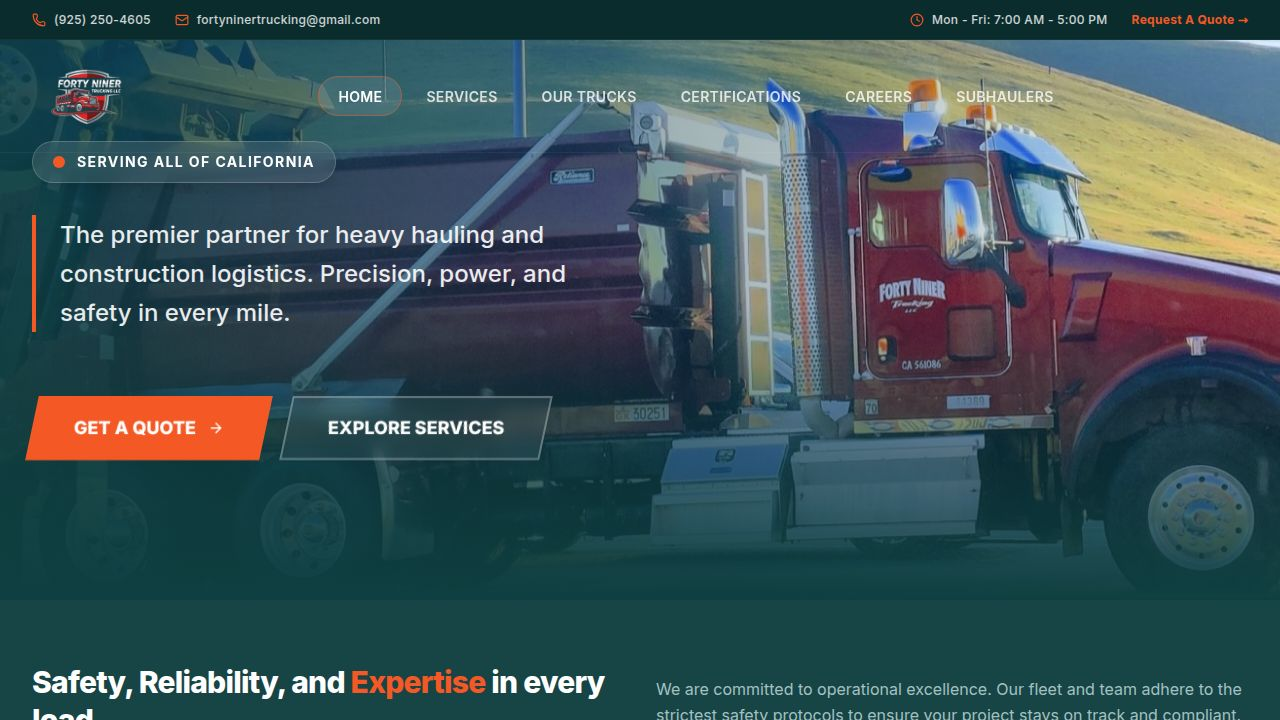
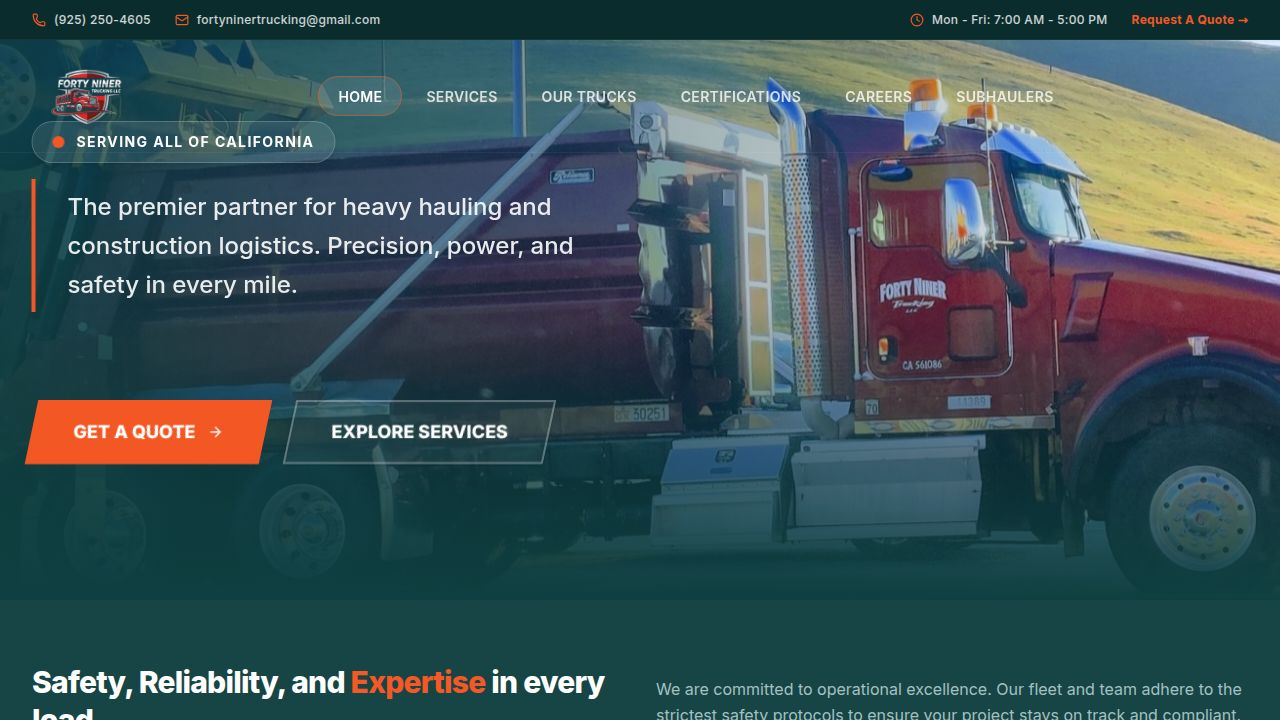
Improve spacing and layout across all site pages
Adjusted various spacing and margin properties within hero sections and page layouts to enhance visual appeal and readability across multiple components and pages.

Replit-Commit-Author: Agent
Replit-Commit-Session-Id: 8c545bd8-3861-4e10-b893-73e8ae926bbb
Replit-Commit-Checkpoint-Type: full_checkpoint
Replit-Commit-Event-Id: ec043393-c745-48ec-84e0-10e8fcd6f94c
Replit-Commit-Screenshot-Url: https://storage.googleapis.com/screenshot-production-us-central1/74c87e2d-ebef-452a-bdc8-60aabaeb0e62/8c545bd8-3861-4e10-b893-73e8ae926bbb/vnhyUVO
Replit-Helium-Checkpoint-Created: true

diff --git a/client/src/pages/home.tsx b/client/src/pages/home.tsx
@@ -40,9 +40,9 @@ export default function Home() {
               initial={{ opacity: 0, x: -50 }}
               animate={{ opacity: 1, x: 0 }}
               transition={{ duration: 0.8, ease: "easeOut" }}
-              className="space-y-8"
+              className="space-y-12"
             >
-              <div className="inline-flex items-center gap-3 px-5 py-2.5 rounded-full bg-white/10 backdrop-blur-md border border-white/20 text-white font-bold tracking-widest text-sm uppercase shadow-lg">
+              <div className="inline-flex items-center gap-3 px-5 py-2.5 rounded-full bg-white/10 backdrop-blur-md border border-white/20 text-white font-bold tracking-widest text-sm uppercase shadow-lg mb-4">
                 <span className="relative flex h-3 w-3">
                   <span className="animate-ping absolute inline-flex h-full w-full rounded-full bg-primary opacity-75"></span>
                   <span className="relative inline-flex rounded-full h-3 w-3 bg-primary"></span>
@@ -51,11 +51,11 @@ export default function Home() {
               </div>
               
               
-              <p className="text-xl md:text-2xl text-white/90 max-w-xl font-medium leading-relaxed border-l-4 border-primary pl-6">
+              <p className="text-xl md:text-2xl text-white/90 max-w-xl font-medium leading-relaxed border-l-4 border-primary pl-8 py-2">
                 The premier partner for heavy hauling and construction logistics. Precision, power, and safety in every mile.
               </p>
               
-              <div className="pt-8 flex flex-col sm:flex-row gap-5">
+              <div className="pt-10 flex flex-col sm:flex-row gap-6">
                 <Link href="/contact">
                   <Button className="rounded-none skew-x-[-12deg] bg-primary hover:bg-primary/90 px-10 h-16 text-lg font-black text-white shadow-[0_0_30px_rgba(var(--primary),0.4)] transition-all hover:skew-x-0 hover:scale-105 border-2 border-primary">
                     <span className="skew-x-[12deg] inline-flex items-center gap-3">

diff --git a/client/src/pages/fleet.tsx b/client/src/pages/fleet.tsx
@@ -29,13 +29,13 @@ export default function Fleet() {
               ease: [0.22, 1, 0.36, 1], // Custom easing for smooth slide
               delay: 0.2 
             }}
-            className="flex flex-col items-center text-center space-y-8"
+            className="flex flex-col items-center text-center space-y-12"
           >
-            <div className="h-24 w-24 rounded-3xl bg-white/10 backdrop-blur-md flex items-center justify-center text-white border border-white/20 shadow-2xl mb-4">
+            <div className="h-24 w-24 rounded-3xl bg-white/10 backdrop-blur-md flex items-center justify-center text-white border border-white/20 shadow-2xl mb-8">
               <Truck size={48} strokeWidth={1.5} />
             </div>
 
-            <h1 className="text-6xl md:text-8xl font-black tracking-tighter text-white leading-none">
+            <h1 className="text-6xl md:text-8xl font-black tracking-tighter text-white leading-none mb-8">
               Coming <br/>
               <span className="text-primary text-transparent bg-clip-text bg-gradient-to-r from-white to-white/50">Soon</span>
             </h1>
@@ -44,10 +44,10 @@ export default function Fleet() {
               initial={{ width: 0 }}
               animate={{ width: "100px" }}
               transition={{ duration: 1, delay: 1 }}
-              className="h-1 bg-white/30 rounded-full"
+              className="h-1 bg-white/30 rounded-full my-8"
             />
 
-            <p className="text-xl md:text-2xl text-white/70 max-w-2xl font-light tracking-wide">
+            <p className="text-xl md:text-2xl text-white/70 max-w-2xl font-light tracking-wide mt-8">
               We are currently updating our fleet gallery with our newest equipment. Check back shortly to view our full inventory of trucks and trailers.
             </p>
           </motion.div>

diff --git a/client/src/pages/services.tsx b/client/src/pages/services.tsx
@@ -21,18 +21,19 @@ export default function Services() {
            <div className="absolute inset-0 bg-[#0F3F40]/80 z-10" />
         </div>
         
-        <div className="relative z-20 w-full max-w-[1800px] mx-auto px-4 md:px-8 text-center space-y-6">
+        <div className="relative z-20 w-full max-w-[1800px] mx-auto px-4 md:px-8 text-center space-y-10">
            <motion.div
              initial={{ opacity: 0, y: 20 }}
              animate={{ opacity: 1, y: 0 }}
              transition={{ duration: 0.6 }}
+             className="space-y-8"
            >
-             <h2 className="text-primary font-bold tracking-widest text-sm mb-4">Our Expertise</h2>
-             <h1 className="text-5xl md:text-7xl font-black tracking-tighter text-white leading-none mb-6">
+             <h2 className="text-primary font-bold tracking-widest text-sm mb-6">Our Expertise</h2>
+             <h1 className="text-5xl md:text-7xl font-black tracking-tighter text-white leading-none mb-8">
               Specialized <br/>
               <span className="text-transparent bg-clip-text bg-gradient-to-r from-primary to-orange-400">Hauling Solutions</span>
              </h1>
-             <p className="text-xl text-white/70 max-w-2xl mx-auto leading-relaxed">
+             <p className="text-xl text-white/70 max-w-2xl mx-auto leading-relaxed mt-8">
                Comprehensive logistics and transport services tailored for the modern construction industry.
              </p>
            </motion.div>

diff --git a/client/src/pages/subhaulers.tsx b/client/src/pages/subhaulers.tsx
@@ -86,13 +86,13 @@ export default function Subhaulers() {
 
       <div className="w-full max-w-[1800px] mx-auto px-4 md:px-8">
         <div className="grid lg:grid-cols-2 gap-12 items-start">
-          <div className="space-y-6">
-            <h1 className="text-4xl md:text-5xl font-bold tracking-tight">Partner With Us.</h1>
+          <div className="space-y-10">
+            <h1 className="text-4xl md:text-5xl font-bold tracking-tight mb-6">Partner With Us.</h1>
             <p className="text-lg text-muted-foreground leading-relaxed">
               We seek reliable owner-operators and subhaulers for long-term partnership. We offer fair dispatch and consistent opportunities.
             </p>
             
-            <div className="grid sm:grid-cols-2 gap-4 pt-4">
+            <div className="grid sm:grid-cols-2 gap-4 pt-8">
                {[
                  { icon: Handshake, title: "Fair Dispatch", desc: "Equitable loads." },
                  { icon: ShieldCheck, title: "Clear Terms", desc: "Transparent agreements." },

diff --git a/client/src/pages/contact.tsx b/client/src/pages/contact.tsx
@@ -84,12 +84,12 @@ export default function Contact() {
       {/* Hero Section */}
       <section className="relative pt-32 pb-20 md:pt-48 md:pb-32 overflow-hidden bg-secondary/30">
         <div className="w-full max-w-[1800px] mx-auto px-4 md:px-8 relative z-10">
-          <div className="max-w-4xl">
-            <h1 className="text-5xl md:text-7xl font-bold tracking-tight text-foreground mb-6">
+          <div className="max-w-4xl space-y-8">
+            <h1 className="text-5xl md:text-7xl font-bold tracking-tight text-foreground mb-8">
               Let's Start a <br />
               <span className="text-primary">Conversation.</span>
             </h1>
-            <p className="text-xl md:text-2xl text-muted-foreground max-w-2xl leading-relaxed">
+            <p className="text-xl md:text-2xl text-muted-foreground max-w-2xl leading-relaxed mt-6">
               Whether you need a quote for a major project or want to join our fleet, 
               our team is ready to help you move forward.
             </p>

diff --git a/client/src/pages/about.tsx b/client/src/pages/about.tsx
@@ -22,14 +22,14 @@ export default function About() {
         </div>
 
         <div className="relative z-20 w-full max-w-[1800px] mx-auto px-4 md:px-8 h-full flex flex-col justify-center">
-          <div className="max-w-3xl space-y-6">
+          <div className="max-w-3xl space-y-10">
             <h1 className="text-5xl md:text-7xl font-black tracking-tighter text-white leading-[0.9]">
               Driving <br />
               <span className="text-primary">Excellence</span> <br />
               in Hauling
             </h1>
-            <div className="h-1 w-24 bg-primary" />
-            <p className="text-xl text-white/90 leading-relaxed max-w-xl font-medium">
+            <div className="h-1 w-24 bg-primary my-8" />
+            <p className="text-xl text-white/90 leading-relaxed max-w-xl font-medium mt-8">
               FortyNinerTrucking LLC is your strategic partner in logistics, delivering safety and reliability since inception.
             </p>
           </div>

diff --git a/client/src/pages/certifications.tsx b/client/src/pages/certifications.tsx
@@ -10,9 +10,9 @@ export default function Certifications() {
       <Navbar />
 
       <div className="w-full max-w-[1800px] mx-auto px-4 md:px-8">
-        <div className="max-w-4xl mx-auto text-center mb-16">
-          <h1 className="text-5xl font-bold tracking-tight mb-6">Compliance & Certifications</h1>
-          <p className="text-xl text-muted-foreground leading-relaxed">
+        <div className="max-w-4xl mx-auto text-center mb-24 space-y-8">
+          <h1 className="text-5xl font-bold tracking-tight mb-8">Compliance & Certifications</h1>
+          <p className="text-xl text-muted-foreground leading-relaxed mt-6">
             FortyNinerTrucking LLC is committed to the highest standards of safety, compliance, and professional excellence. We maintain all necessary permits and certifications to operate efficiently and legally across all our service areas.
           </p>
         </div>
